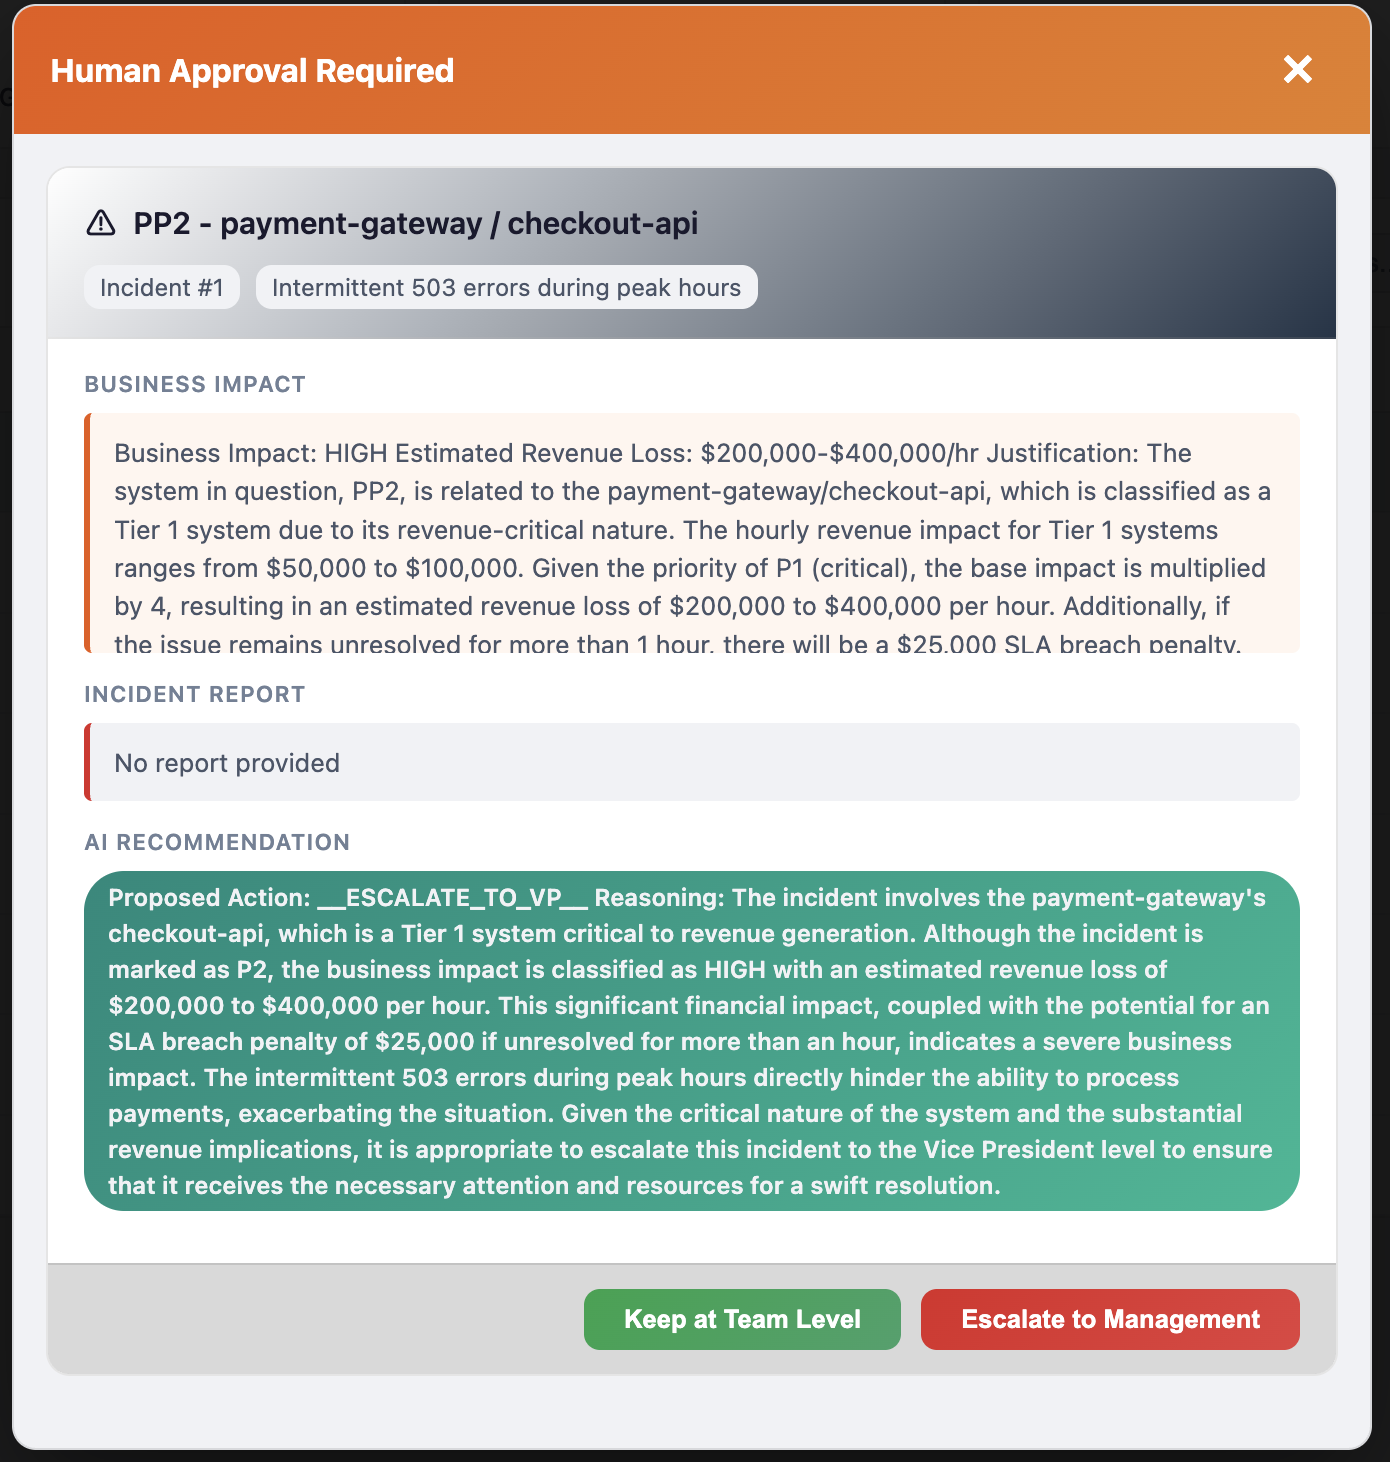
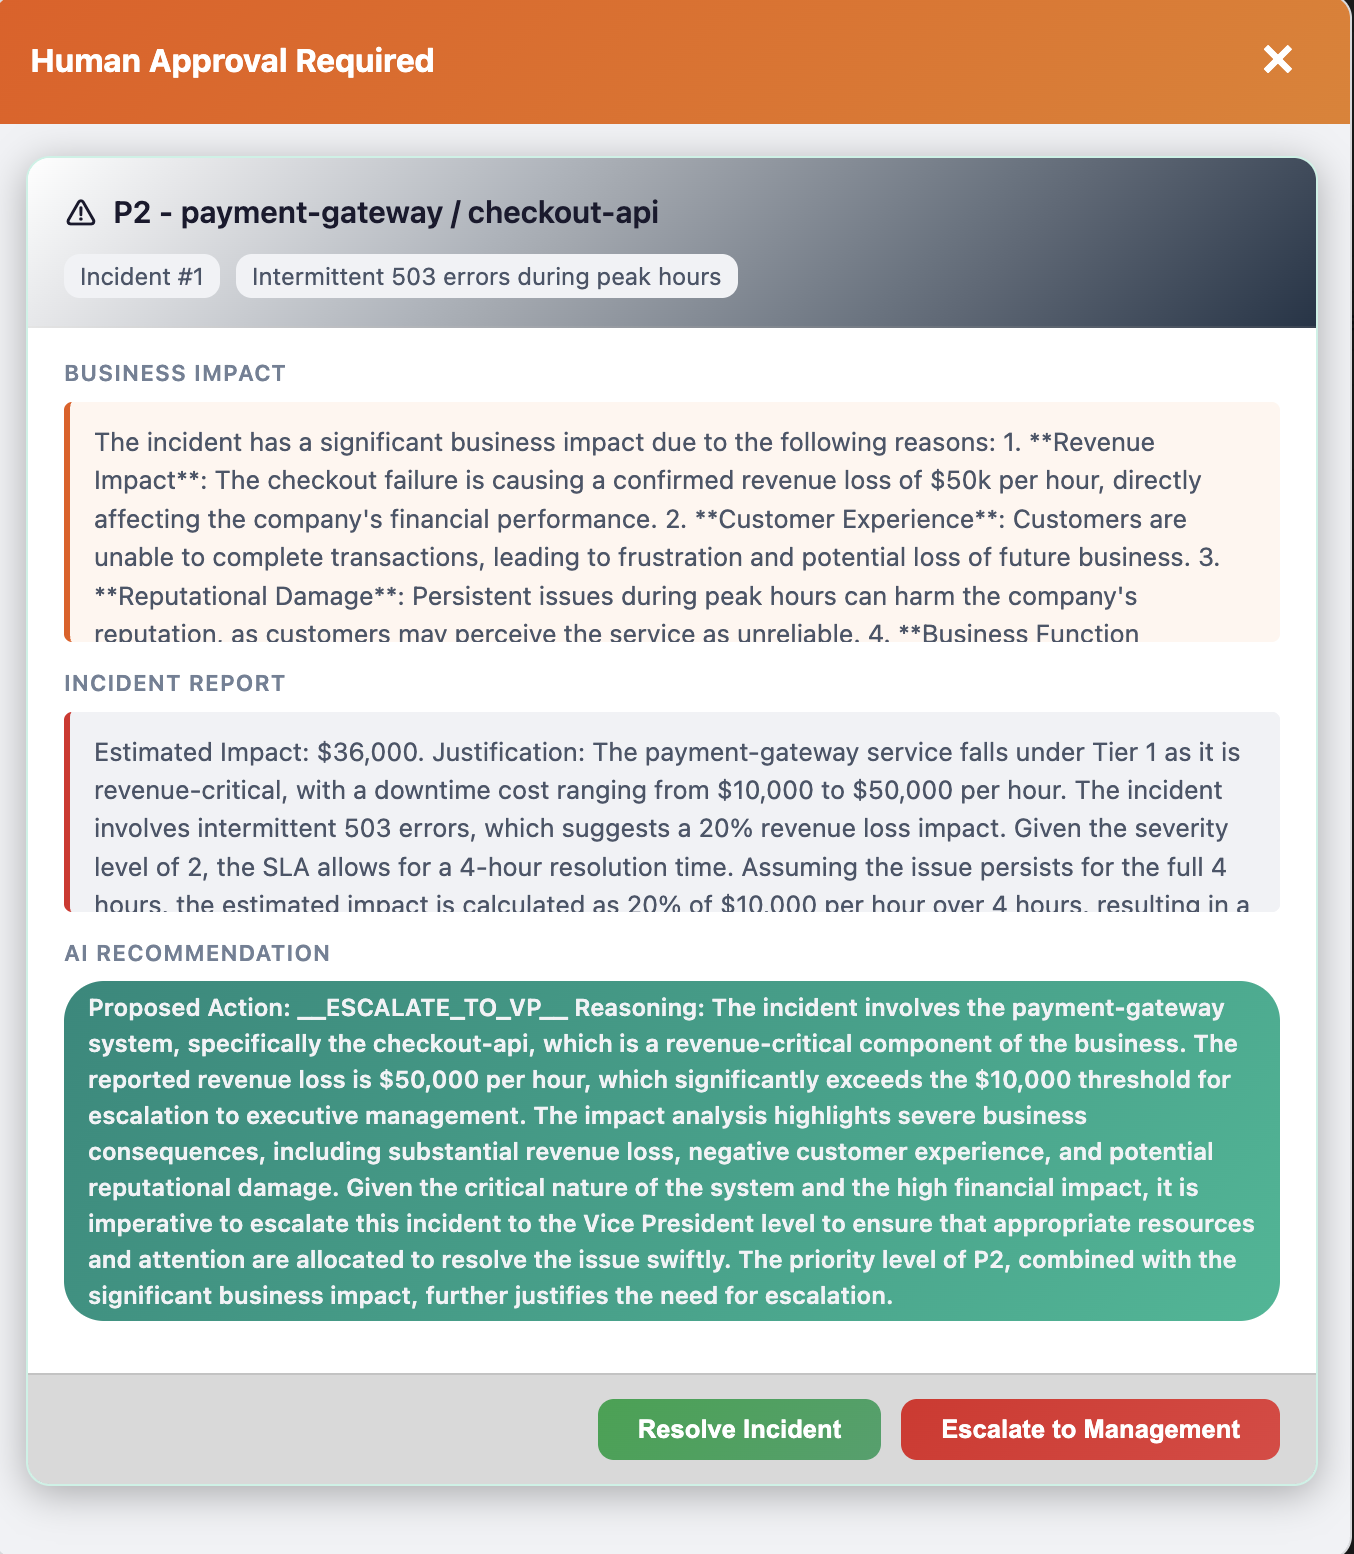
Align HITL resolve decision across workshop

diff --git a/solutions/06-hitl-observability/src/main/resources/META-INF/resources/js/app.js b/solutions/06-hitl-observability/src/main/resources/META-INF/resources/js/app.js
@@ -467,7 +467,7 @@ function createApprovalCard(proposal) {
             </div>
         </div>
         <div class="approval-card-footer">
-            <button class="btn-approve" onclick="handleProposalDecision(${proposal.id}, 'KEEP_AT_TEAM')">Keep at Team Level</button>
+            <button class="btn-approve" onclick="handleProposalDecision(${proposal.id}, 'RESOLVE_INCIDENT')">Resolve Incident</button>
             <button class="btn-reject" onclick="handleProposalDecision(${proposal.id}, 'ESCALATE_INCIDENT')">Escalate to Management</button>
         </div>
     `;
@@ -484,13 +484,13 @@ async function handleProposalDecision(proposalId, decision) {
             headers: { 'Content-Type': 'application/json' },
             body: JSON.stringify({
                 decision: decision,
-                reason: reason || `${decision === 'KEEP_AT_TEAM' ? 'Keep at team level' : 'Escalate to management'} decision by human reviewer`,
+                reason: reason || `${decision === 'RESOLVE_INCIDENT' ? 'Resolve incident' : 'Escalate to management'} decision by human reviewer`,
                 approvedBy: 'Workshop User'
             })
         });
 
         if (response.ok) {
-            const actionText = decision === 'KEEP_AT_TEAM' ? 'KEEP AT TEAM' : 'ESCALATE';
+            const actionText = decision === 'RESOLVE_INCIDENT' ? 'RESOLVE' : 'ESCALATE';
             showToast(`Decision: ${actionText} - Workflow will complete shortly`);
             const card = document.getElementById(`approval-${proposalId}`);
             if (card) {

diff --git a/solutions/06-hitl-observability/src/main/java/com/incidentmanagement/resource/ApprovalResource.java b/solutions/06-hitl-observability/src/main/java/com/incidentmanagement/resource/ApprovalResource.java
@@ -33,6 +33,11 @@ public class ApprovalResource {
     }
 
     @ServerExceptionMapper
+    public RestResponse<Map<String, String>> mapBadRequest(BadRequestException e) {
+        return RestResponse.status(Response.Status.BAD_REQUEST, Map.of("error", e.getMessage()));
+    }
+
+    @ServerExceptionMapper
     public RestResponse<Map<String, String>> mapGeneral(Exception e) {
         Log.error("Error processing request", e);
         return RestResponse.status(Response.Status.INTERNAL_SERVER_ERROR,
@@ -84,8 +89,8 @@ public class ApprovalResource {
         String reason = request.getOrDefault("reason", "Decision by human reviewer");
         String approvedBy = request.getOrDefault("approvedBy", "Workshop User");
 
-        if (decision == null || (!decision.equals("KEEP_AT_TEAM") && !decision.equals("ESCALATE_INCIDENT"))) {
-            throw new BadRequestException("Decision must be either KEEP_AT_TEAM or ESCALATE_INCIDENT");
+        if (decision == null || (!decision.equals("RESOLVE_INCIDENT") && !decision.equals("ESCALATE_INCIDENT"))) {
+            throw new BadRequestException("Decision must be either RESOLVE_INCIDENT or ESCALATE_INCIDENT");
         }
 
         Log.infof("Decision '%s' received for proposal %d by %s", decision, proposalId, approvedBy);

diff --git a/solutions/06-hitl-observability/src/test/java/com/incidentmanagement/resource/ApprovalResourceTest.java b/solutions/06-hitl-observability/src/test/java/com/incidentmanagement/resource/ApprovalResourceTest.java
@@ -1,0 +1,33 @@
+package com.incidentmanagement.resource;
+
+import io.quarkus.test.junit.QuarkusTest;
+import org.junit.jupiter.api.Test;
+
+import static io.restassured.RestAssured.given;
+import static org.hamcrest.Matchers.containsString;
+import static org.hamcrest.Matchers.not;
+
+@QuarkusTest
+class ApprovalResourceTest {
+
+    @Test
+    void approvalUiUsesDecisionsAcceptedByApi() {
+        given()
+                .when().get("/js/app.js")
+                .then()
+                .statusCode(200)
+                .body(containsString("handleProposalDecision(${proposal.id}, 'RESOLVE_INCIDENT')"))
+                .body(not(containsString("handleProposalDecision(${proposal.id}, 'KEEP_AT_TEAM')")));
+    }
+
+    @Test
+    void invalidDecisionReturnsBadRequest() {
+        given()
+                .contentType("application/json")
+                .body("{\"decision\":\"KEEP_AT_TEAM\"}")
+                .when().post("/api/approvals/1/decide")
+                .then()
+                .statusCode(400)
+                .body("error", containsString("RESOLVE_INCIDENT or ESCALATE_INCIDENT"));
+    }
+}

diff --git a/solutions/06-hitl-observability/src/main/java/com/incidentmanagement/agentic/agents/ResolutionAgent.java b/solutions/06-hitl-observability/src/main/java/com/incidentmanagement/agentic/agents/ResolutionAgent.java
@@ -20,8 +20,8 @@ public interface ResolutionAgent {
 
         Rules:
         - CRITICAL: The human approval decision OVERRIDES all other signals.
-          If approvalDecision contains "KEEP_AT_TEAM" or "SKIPPED" → NEVER use ESCALATE.
-          Use INVESTIGATE or TRIAGE instead based on the analysis.
+          If approvalDecision contains "RESOLVE_INCIDENT" → use RESOLVE.
+          If approvalDecision contains "SKIPPED" → NEVER use ESCALATE; use INVESTIGATE or TRIAGE based on the analysis.
         - Only use ESCALATE if the human approved the escalation (approvalDecision contains "ESCALATE_INCIDENT" or "APPROVED").
         - If no human override applies, fall back to analysis:
           - If supervisorDecision mentions ESCALATE_P1/ASSIGN_TEAM (but NOT CLOSE) → ESCALATE

diff --git a/solutions/07-a2a/multi-agent-system/src/main/java/com/incidentmanagement/agentic/agents/ResolutionAgent.java b/solutions/07-a2a/multi-agent-system/src/main/java/com/incidentmanagement/agentic/agents/ResolutionAgent.java
@@ -20,8 +20,8 @@ public interface ResolutionAgent {
 
         Rules:
         - CRITICAL: The human approval decision OVERRIDES all other signals.
-          If approvalDecision contains "KEEP_AT_TEAM" or "SKIPPED" → NEVER use ESCALATE.
-          Use INVESTIGATE or TRIAGE instead based on the analysis.
+          If approvalDecision contains "RESOLVE_INCIDENT" → use RESOLVE.
+          If approvalDecision contains "SKIPPED" → NEVER use ESCALATE; use INVESTIGATE or TRIAGE based on the analysis.
         - Only use ESCALATE if the human approved the escalation (approvalDecision contains "ESCALATE_INCIDENT" or "APPROVED").
         - If no human override applies, fall back to analysis:
           - If supervisorDecision mentions ESCALATE_P1/ASSIGN_TEAM (but NOT CLOSE) → ESCALATE

diff --git a/docs/06-hitl-observability/START_HERE.md b/docs/06-hitl-observability/START_HERE.md
@@ -29,17 +29,17 @@ flowchart TD
     EPA(["EscalationProposalAgent<br/>proposed action ESCALATE_P1"])
     HITL{"HumanInTheLoop gate<br/>Awaiting Approval"}
     ESC([ESCALATED])
-    INV(["IN_PROGRESS<br/>reassessment"])
+    RES([RESOLVED])
 
     ISA --> EPA --> HITL
     HITL -->|Escalate to Management| ESC
-    HITL -->|Keep at Team Level| INV
+    HITL -->|Resolve Incident| RES
 
     style ISA fill:#FFE4CC,stroke:#B87333
     style EPA fill:#D8F0D8,stroke:#3D7A3D
     style HITL fill:#FFF8DC,stroke:#C4A000
     style ESC fill:#D8F0D8,stroke:#3D7A3D
-    style INV fill:#D4E6F1,stroke:#2E6B8A
+    style RES fill:#D4E6F1,stroke:#2E6B8A
 ```
 
 ---
@@ -92,7 +92,7 @@ Complete checkout failure, all transactions failing, revenue loss confirmed at $
 **How to confirm:** The UI shows an **"Awaiting Approval"** modal with two buttons. This is the HITL gate — the system has paused and is waiting for a human decision.
 
 - Click **Escalate to Management** → check that the UI status changes to `ESCALATED`
-- Now press `s` in the Quarkus terminal to restart (reset the database), then **reload the browser**. Process Incident **#1** again with the same report → this time click **Keep at Team Level** → check that the UI status changes to `IN_PROGRESS`
+- Now press `s` in the Quarkus terminal to restart (reset the database), then **reload the browser**. Process Incident **#1** again with the same report → this time click **Resolve Incident** → check that the UI status changes to `RESOLVED`
 
 In the Quarkus terminal logs, look for `WORKFLOW PAUSED` and `WORKFLOW RESUMED` showing the approval decision.
 
@@ -151,9 +151,8 @@ cd ../../lab
 
 - [ ] You can explain `@HumanInTheLoop` vs regular `@Agent` — what makes the workflow pause
 - [ ] HITL gate paused and escalated after clicking **Escalate to Management** → status `ESCALATED`
-- [ ] HITL gate paused and kept at team level after clicking **Keep at Team Level** → status `IN_PROGRESS`
+- [ ] HITL gate paused and resolved after clicking **Resolve Incident** → status `RESOLVED`
 - [ ] Grafana/Tempo shows the span waterfall with agent names (e.g., `EscalationProposalAgent`, `completion gpt-4o`) and durations
 - [ ] You understand the FinOps insight: tracing reveals per-agent token cost so you can catch runaway spending
 
 </div>
-
